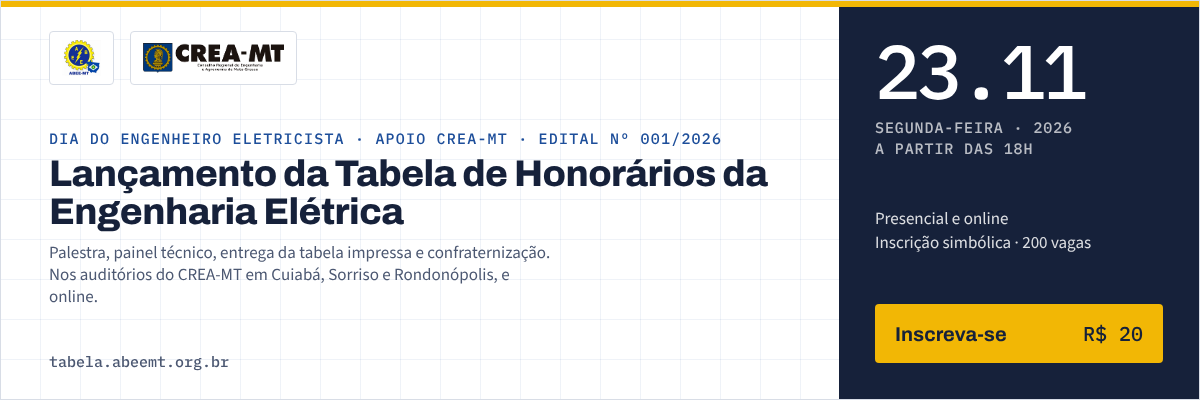
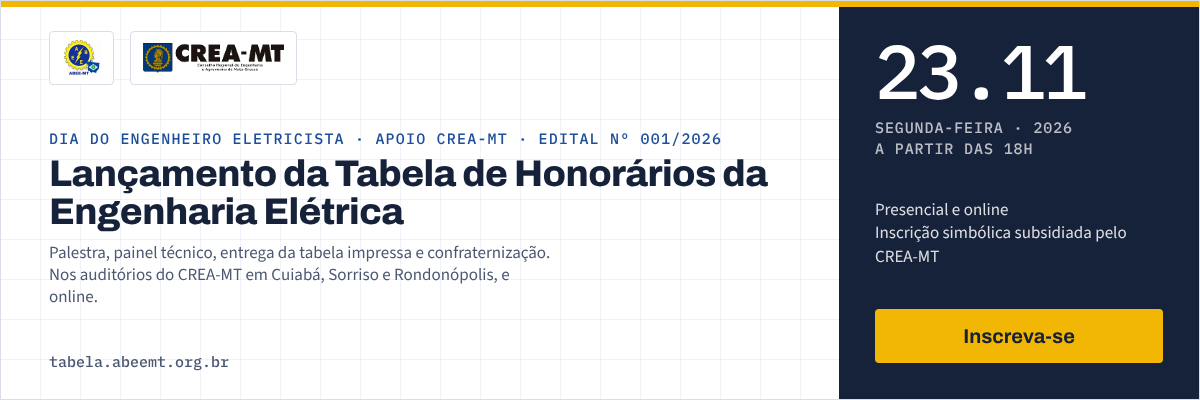
Tabela de Honorários: remove the price from all artworks
Claude-Session: https://claude.ai/code/session_01L5A9gHGbyVwomn7NoqX2pb

Changed region(s): [[0.7092, 0.51, 0.9558, 0.66], [0.74, 0.81, 0.9558, 0.87], [0.7092, 0.75, 0.9867, 0.78]]

diff --git a/tabela-honorarios/banners/crea-1200x400.html b/tabela-honorarios/banners/crea-1200x400.html
@@ -25,6 +25,6 @@ h1{font-size:37px;max-width:none;margin:8px 0 10px}
 </div>
 <div class="r">
   <div class="date"><span class="big mono">23.11</span><span class="sm mono">Segunda-feira · 2026<br>a partir das 18h</span></div>
-  <div class="cities">Presencial e online<br>Inscrição simbólica · 200 vagas</div>
-  <div class="cta">Inscreva-se <span>R$ 20</span></div>
+  <div class="cities">Presencial e online<br>Inscrição simbólica subsidiada pelo CREA-MT</div>
+  <div class="cta" style="justify-content:center">Inscreva-se</div>
 </div></div></body></html>

diff --git a/tabela-honorarios/banners/instagram-1080x1080.html b/tabela-honorarios/banners/instagram-1080x1080.html
@@ -25,5 +25,5 @@ h1{font-size:78px;margin:18px 0 22px;max-width:12ch}
 </div>
 <div class="bot">
   <div class="date"><span class="big mono">23.11</span><span class="sm mono">Segunda-feira · 18h<br>Presencial e online</span></div>
-  <div class="cta-col"><div class="cta">Inscreva-se <span>R$ 20</span></div><div class="url mono">tabela.abeemt.org.br</div></div>
+  <div class="cta-col"><div class="cta" style="justify-content:center">Inscreva-se</div><div class="url mono">tabela.abeemt.org.br</div></div>
 </div></div></body></html>

diff --git a/tabela-honorarios/banners/story-1080x1920.html b/tabela-honorarios/banners/story-1080x1920.html
@@ -26,6 +26,6 @@ h1{font-size:96px;max-width:11ch}
 </div>
 <div class="bot">
   <div class="list">Auditórios do CREA-MT nas três cidades<br>Transmissão ao vivo para todo o estado<br>Certificado e tabela digital para todos os inscritos</div>
-  <div class="cta">Inscreva-se <span>R$ 20</span></div>
+  <div class="cta" style="justify-content:center">Inscreva-se</div>
   <div class="url mono">tabela.abeemt.org.br · link na bio</div>
 </div></div></body></html>

diff --git a/tabela-honorarios/banners/banner-970x150.html b/tabela-honorarios/banners/banner-970x150.html
@@ -30,7 +30,7 @@ h1{font-family:"Archivo",sans-serif;font-size:27px;font-weight:800;line-height:1
   </div>
   <div class="right">
     <div class="date"><span class="big">23.11</span><span class="sm">Segunda-feira<br>18h · presencial<br>e online</span></div>
-    <div class="cta">Inscreva-se <span>R$ 20</span></div>
+    <div class="cta" style="justify-content:center">Inscreva-se</div>
   </div>
 </div>
 </body></html>
